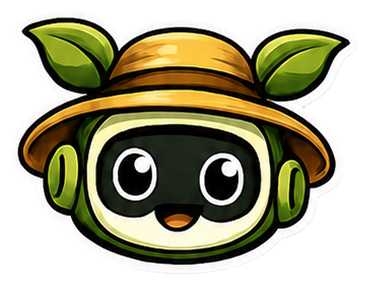
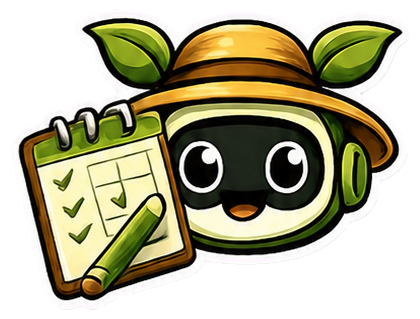
Polish Pip Pro calendar and tab arrangement

diff --git a/pip.html b/pip.html
@@ -48,7 +48,7 @@
 @media(max-width:1000px){.calendar-shell{grid-template-columns:1fr}.calendar-details{order:-1}.calendar-year-grid{grid-template-columns:repeat(2,minmax(0,1fr))}}
 @media(max-width:700px){.calendar-toolbar{display:grid}.calendar-period{justify-content:space-between}.calendar-period h3{min-width:0;flex:1}.calendar-view-switch{display:grid;grid-template-columns:repeat(4,1fr)}.calendar-view-switch button{padding:6px 3px}.calendar-day{min-height:58px;padding:4px}.calendar-day-number{width:23px;height:23px}.calendar-event{width:7px;height:7px;padding:0;border-radius:50%;font-size:0}.calendar-event-stack{display:flex;gap:3px;flex-wrap:wrap}.calendar-more{display:none}.agenda-day{grid-template-columns:80px minmax(0,1fr);gap:9px;padding:11px}.calendar-year-grid{grid-template-columns:1fr 1fr;padding:7px}.calendar-details{padding:12px}}
 @media(max-width:430px){.calendar-year-grid{grid-template-columns:1fr}.calendar-today{padding:7px 8px}.calendar-nav{width:36px}}
-.workspace-meta{display:flex;align-items:center;justify-content:space-between;gap:10px;margin:3px 0 6px}.workspace-meta .workspace-status{flex:1;margin:0}.arrange-tabs-button{min-height:38px;padding:7px 11px;border:1px solid var(--line);border-radius:6px;background:#fff;color:var(--ink);font-size:.82rem;font-weight:900;cursor:pointer}.arrange-tabs-button:hover{background:var(--soft)}.tab-order-dialog{width:min(520px,calc(100% - 24px));max-height:min(760px,calc(100dvh - 24px));padding:0;border:0;border-radius:8px;background:#fff;color:var(--ink);box-shadow:0 28px 80px rgba(15,36,28,.34)}.tab-order-dialog::backdrop{background:rgba(15,33,27,.66)}.tab-order-form{display:grid;gap:14px;padding:22px}.tab-order-form h2,.tab-order-form p{margin:0}.tab-order-form>p{color:var(--muted);font-size:.9rem}.tab-order-list{display:grid;gap:7px;max-height:52dvh;overflow-y:auto;padding:2px}.tab-order-row{display:grid;grid-template-columns:30px minmax(0,1fr) 38px 38px;gap:7px;align-items:center;min-height:48px;padding:6px 7px;border:1px solid var(--line);border-left:7px solid var(--tab,#bfe3c9);border-radius:6px;background:#fff}.tab-order-row.is-dragging{opacity:.48}.tab-order-grip{color:var(--muted);font-size:1.1rem;text-align:center;cursor:grab}.tab-order-name{font-weight:900}.tab-order-move{display:grid;place-items:center;width:38px;height:36px;padding:0;border:1px solid var(--line);border-radius:5px;background:var(--soft);color:var(--ink);font-size:1.05rem;font-weight:950;cursor:pointer}.tab-order-move:disabled{opacity:.35;cursor:default}.tab-order-actions{display:flex;justify-content:space-between;gap:8px;flex-wrap:wrap}.tab-order-actions>div{display:flex;gap:8px}.tab-order-status{min-height:18px!important;color:var(--deep)!important;font-size:.82rem!important;font-weight:850}.workspace-tab.drag-ready{cursor:grab}@media(max-width:560px){.workspace-meta{align-items:flex-start}.arrange-tabs-button{flex:0 0 auto;min-height:40px;padding:7px 9px;font-size:.76rem}.tab-order-form{padding:18px 14px}.tab-order-list{max-height:56dvh}.tab-order-actions,.tab-order-actions>div{display:grid;grid-template-columns:1fr;width:100%}.tab-order-actions>div{grid-template-columns:1fr 1fr}.tab-order-actions .btn{width:100%}}
+.workspace-meta{margin:3px 0 6px}.workspace-meta .workspace-status{margin:0}.workspace-tab.arrange-tabs{--tab:#e4ebe4;color:var(--deep)}.tab-order-dialog{width:min(520px,calc(100% - 24px));max-height:min(760px,calc(100dvh - 24px));padding:0;border:0;border-radius:8px;background:#fff;color:var(--ink);box-shadow:0 28px 80px rgba(15,36,28,.34)}.tab-order-dialog::backdrop{background:rgba(15,33,27,.66)}.tab-order-form{display:grid;gap:14px;padding:22px}.tab-order-form h2,.tab-order-form p{margin:0}.tab-order-form>p{color:var(--muted);font-size:.9rem}.tab-order-list{display:grid;gap:7px;max-height:52dvh;overflow-y:auto;padding:2px}.tab-order-row{display:grid;grid-template-columns:30px minmax(0,1fr) 38px 38px;gap:7px;align-items:center;min-height:48px;padding:6px 7px;border:1px solid var(--line);border-left:7px solid var(--tab,#bfe3c9);border-radius:6px;background:#fff}.tab-order-row.is-dragging{opacity:.48}.tab-order-grip{color:var(--muted);font-size:1.1rem;text-align:center;cursor:grab}.tab-order-name{font-weight:900}.tab-order-move{display:grid;place-items:center;width:38px;height:36px;padding:0;border:1px solid var(--line);border-radius:5px;background:var(--soft);color:var(--ink);font-size:1.05rem;font-weight:950;cursor:pointer}.tab-order-move:disabled{opacity:.35;cursor:default}.tab-order-actions{display:flex;justify-content:space-between;gap:8px;flex-wrap:wrap}.tab-order-actions>div{display:flex;gap:8px}.tab-order-status{min-height:18px!important;color:var(--deep)!important;font-size:.82rem!important;font-weight:850}.workspace-tab.drag-ready{cursor:grab}@media(max-width:560px){.tab-order-form{padding:18px 14px}.tab-order-list{max-height:56dvh}.tab-order-actions,.tab-order-actions>div{display:grid;grid-template-columns:1fr;width:100%}.tab-order-actions>div{grid-template-columns:1fr 1fr}.tab-order-actions .btn{width:100%}}
 </style>
 <style>
 .data-delete{margin-top:8px!important;border-color:#b64a3b!important;color:#8a2f24!important}
@@ -106,7 +106,7 @@ html.pip-pro-route .pip-app{display:none}html.pip-pro-route .pro-view{display:bl
     <section class="pro-band pro-workspace" id="proWorkspace">
       <div class="workspace-heading"><div><p class="eyebrow">Pip Pro workspace</p><h1>Your grow notebooks.</h1><p>Each notebook keeps one system's profile, conversations, schedules, readings, seeds, and notes together.</p></div><div class="workspace-heading-side"><img class="workspace-pip" src="/assets/marketing/pip-pro-workspace-transparent.png" alt="Pip Pro ready to help manage the grow"><span class="saved-badge">Account memory on</span></div></div>
       <div class="project-switcher"><label>Open notebook<select id="proProjectSelect" aria-label="Open grow notebook"></select><small>Choose which grow the tabs below belong to.</small></label><button class="secondary" id="proCreateProject" type="button">+ Add grow</button></div>
-      <div class="workspace-meta"><p class="workspace-status" id="proWorkspaceStatus" aria-live="polite"></p><button class="arrange-tabs-button" id="proArrangeTabs" type="button">Arrange tabs</button></div>
+      <div class="workspace-meta"><p class="workspace-status" id="proWorkspaceStatus" aria-live="polite"></p></div>
       <div class="workspace-notebook">
         <nav class="workspace-tabs" role="tablist" aria-label="Pip Pro notebook">
           <button class="workspace-tab profile active" type="button" role="tab" aria-selected="true" data-pro-page="profile">Profile</button>
@@ -120,6 +120,7 @@ html.pip-pro-route .pip-app{display:none}html.pip-pro-route .pro-view{display:bl
           <button class="workspace-tab beta" id="pipBetaTab" type="button" role="tab" aria-selected="false" data-pro-page="beta" hidden>Beta</button>
           <a class="workspace-tab guide" data-pro-page="guide" href="https://hydropip-pip-api.onrender.com/field-guide" target="_top">Field Guide</a>
           <a class="workspace-tab pip-chat" id="proChatLink" data-pro-page="chat" href="https://www.hydropip.com/pip" target="_top">Ask Pip</a>
+          <button class="workspace-tab arrange-tabs" id="proArrangeTabs" type="button" aria-haspopup="dialog" title="Arrange notebook tabs">Arrange</button>
         </nav>
         <div class="notebook-paper">
       <section class="workspace-section notebook-page active" data-pro-panel="profile" id="growProfileSection"><div class="page-intro"><div><span class="page-label">Grow profile</span><h2>Give Pip the details once.</h2><p>Pip uses this information for zone-aware crop timing, area-specific cautions, system sizing, and better next-step answers.</p></div><div class="notebook-guide"><img src="/assets/marketing/pro-tabs/profile.png" alt="Pip holding a grow profile ID"><div class="notebook-help">Update this page whenever the system, crops, or location changes.</div></div></div>
@@ -352,7 +353,7 @@ html.pip-pro-route .pip-app{display:none}html.pip-pro-route .pro-view{display:bl
   function revealProPage(){if(!proMode)return;updateProPage();document.documentElement.classList.remove("pro-auth-pending")}
   async function proRequest(path,options){var response=await fetch(pipApiBase+path,Object.assign({headers:requestHeaders()},options||{}));var data=await response.json().catch(function(){return{}});if(!response.ok)throw new Error(data.message||data.error||"Pip Pro request failed");return data}
   function normalizeWorkspaceTabOrder(order){var seen={};var next=[];(Array.isArray(order)?order:[]).forEach(function(key){key=String(key||"");if(workspaceTabDefaultOrder.indexOf(key)===-1||seen[key])return;seen[key]=true;next.push(key)});workspaceTabDefaultOrder.forEach(function(key){if(!seen[key])next.push(key)});return next}
-  function applyWorkspaceTabOrder(order){workspaceTabOrder=normalizeWorkspaceTabOrder(order);workspaceTabOrder.forEach(function(key){var tab=proTabs.find(function(item){return item.dataset.proPage===key});if(tab)proWorkspaceTabs.appendChild(tab)})}
+  function applyWorkspaceTabOrder(order){workspaceTabOrder=normalizeWorkspaceTabOrder(order);workspaceTabOrder.forEach(function(key){var tab=proTabs.find(function(item){return item.dataset.proPage===key});if(tab)proWorkspaceTabs.appendChild(tab)});proWorkspaceTabs.appendChild(proArrangeTabs)}
   function visibleTabOrderFromEditor(){return Array.from(proTabOrderList.querySelectorAll("[data-tab-order-key]")).map(function(row){return row.dataset.tabOrderKey})}
   function completeTabOrderFromVisible(visibleOrder){var visible={};visibleOrder.forEach(function(key){visible[key]=true});var queue=visibleOrder.slice();var complete=workspaceTabOrder.map(function(key){return visible[key]?queue.shift():key});queue.forEach(function(key){if(complete.indexOf(key)===-1)complete.push(key)});return normalizeWorkspaceTabOrder(complete)}
   function updateTabOrderButtons(){var rows=Array.from(proTabOrderList.children);rows.forEach(function(row,index){var up=row.querySelector('[data-tab-move="up"]');var down=row.querySelector('[data-tab-move="down"]');if(up)up.disabled=index===0;if(down)down.disabled=index===rows.length-1})}

diff --git a/server/site-qa.js b/server/site-qa.js
@@ -53,6 +53,11 @@ for (const asset of ["profile.png", "planner.png", "calendar.png", "seeds.png", 
   assert.equal(fs.existsSync(new URL(`../assets/marketing/pro-tabs/${asset}`, import.meta.url)), true, `Pip notebook guide is missing: ${asset}`);
   assert.match(pipHtml, new RegExp(`/assets/marketing/pro-tabs/${asset.replaceAll(".", "\\.")}`), `Pip Pro should use the ${asset} notebook guide`);
 }
+assert.deepEqual(
+  fs.readFileSync(new URL("../assets/marketing/pro-tabs/calendar.png", import.meta.url)),
+  fs.readFileSync(new URL("../assets/marketing/pro-tabs/planner.png", import.meta.url)),
+  "Planner and Calendar should use the same planning Pip head"
+);
 assert.equal(fs.existsSync(new URL("../assets/marketing/pro-tabs/build.png", import.meta.url)), true, "The transparent Track Build notebook guide is missing");
 assert.match(pipHtml, /\/assets\/marketing\/pro-tabs\/build\.png/, "Track Build should use its transparent construction Pip guide");
 const partsChecklistHtml = fs.readFileSync(new URL("../parts-checklist.html", import.meta.url), "utf8");
@@ -70,6 +75,8 @@ for (const page of ["profile", "planner", "calendar", "log", "history"]) {
 }
 assert.match(pipHtml, /activateProPage/, "Pip Pro notebook tabs are not wired to page navigation");
 assert.match(pipHtml, /id=["']proArrangeTabs["']/, "Pip Pro needs an Arrange tabs control");
+assert.match(pipHtml, /class=["'][^"']*workspace-tab[^"']*arrange-tabs[^"']*["'][^>]*id=["']proArrangeTabs["']/, "Arrange tabs should live inside the notebook tab strip");
+assert.match(pipHtml, /appendChild\(proArrangeTabs\)/, "Arrange should remain pinned after member tab ordering is applied");
 assert.match(pipHtml, /id=["']proTabOrderDialog["']/, "Pip Pro needs a mobile-friendly tab ordering panel");
 assert.match(pipHtml, /\/api\/pip\/users\/me\/preferences/, "Pip Pro tab order should persist to the member account");
 assert.match(pipHtml, /workspaceTabOrder/, "Pip Pro should apply the saved tab order across devices");
